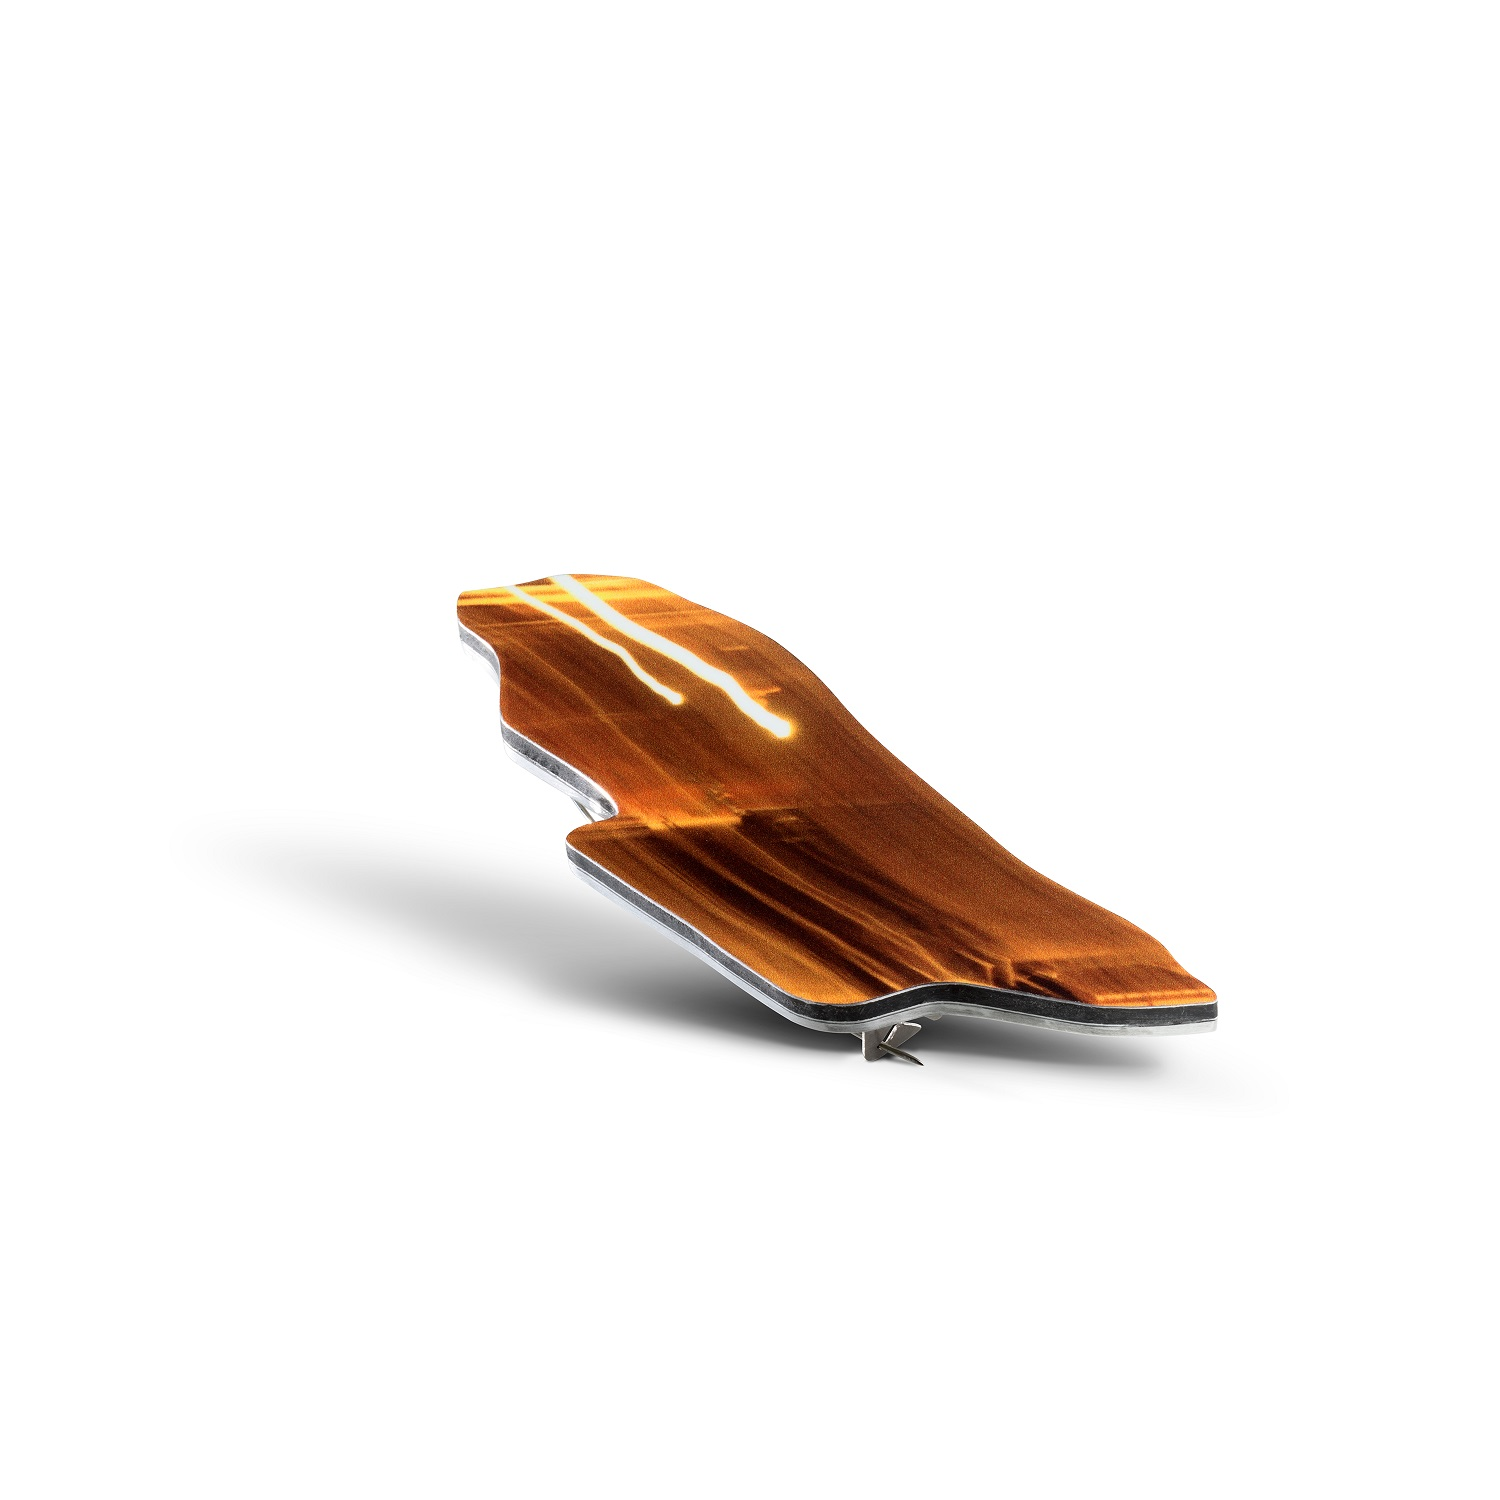
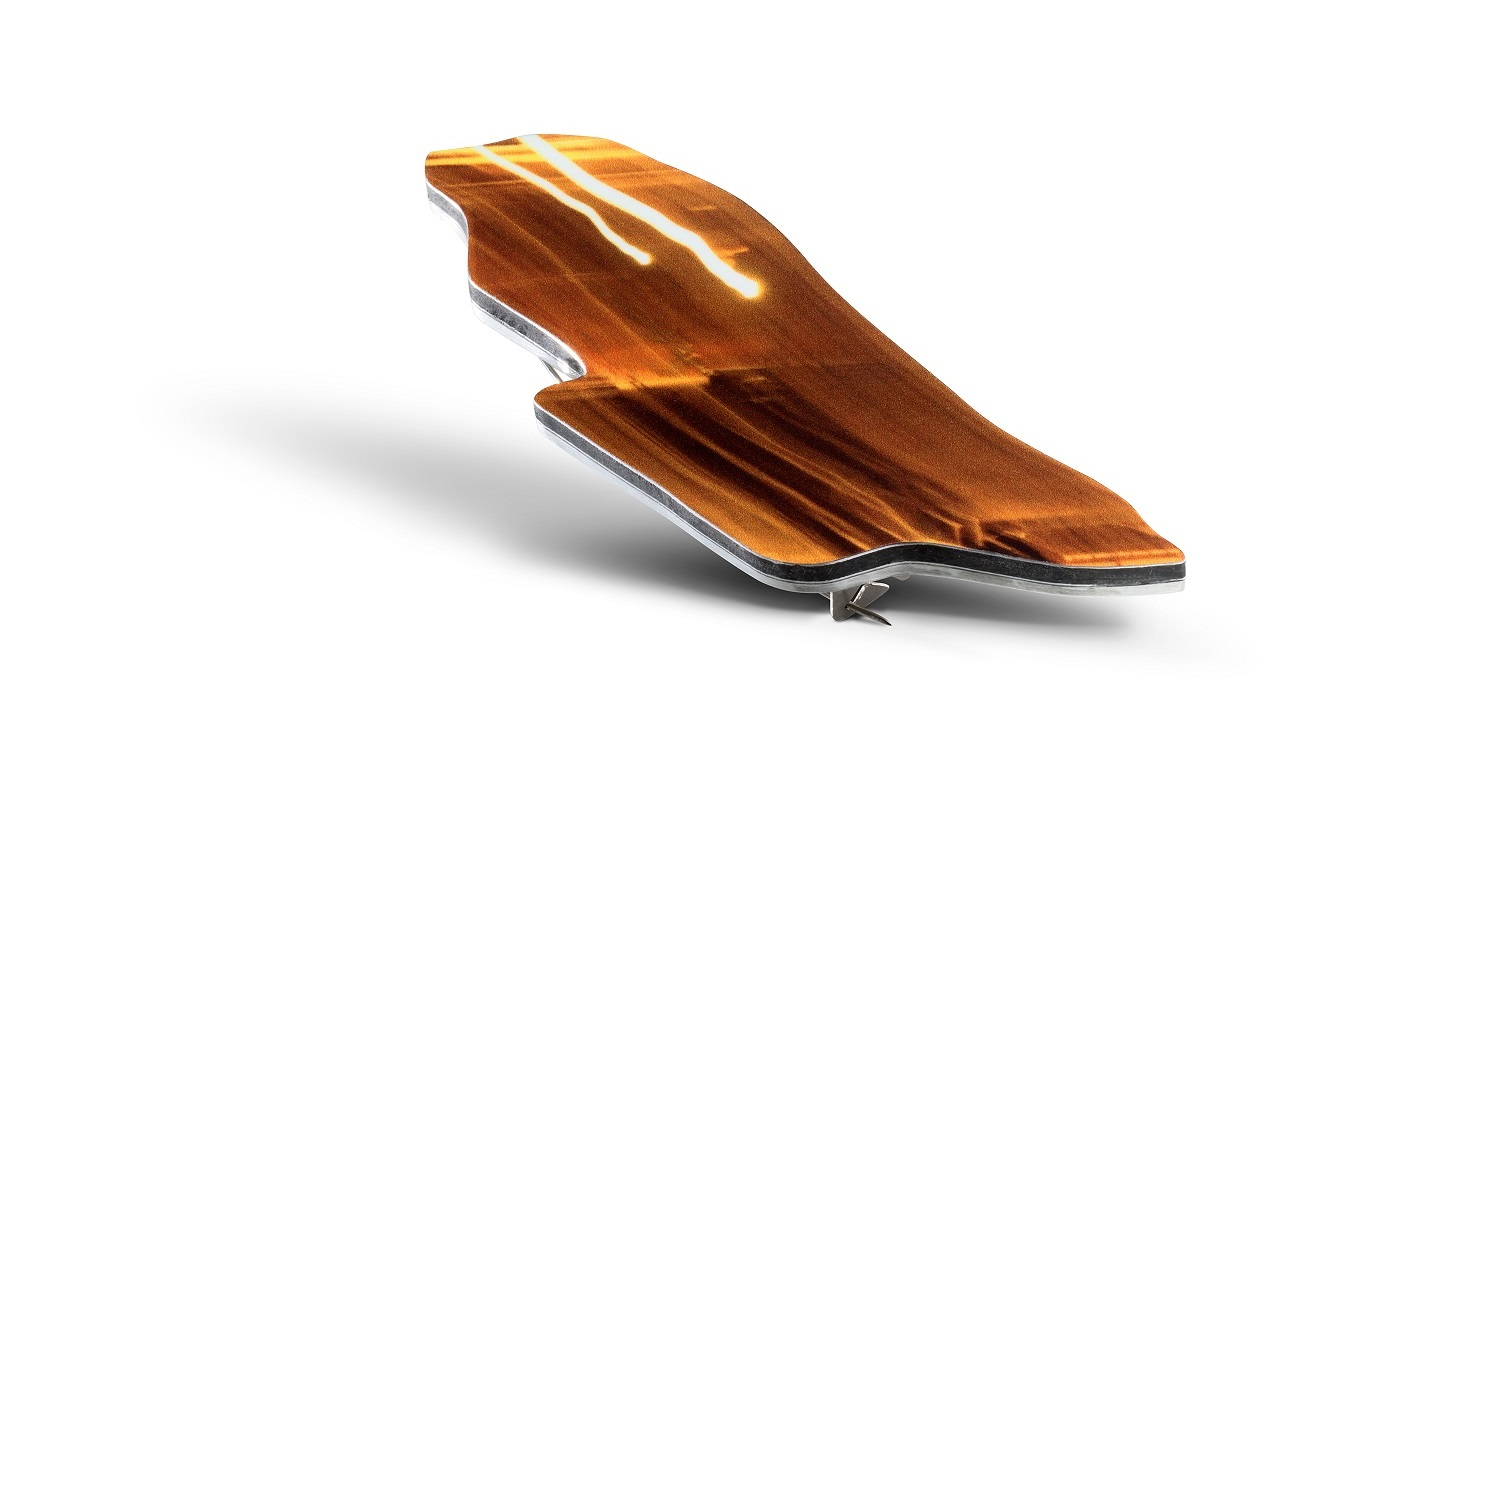
Modifiche a Easy Living

Changed region(s): [[0.184, 0.092, 0.828, 0.736]]

diff --git a/it/easy_living.html b/it/easy_living.html
@@ -115,60 +115,72 @@
             <div class="large-12 cell center">
                 <a data-open="modalFigura" class="thumbnail">
                     <img class="lazyload" data-src="../images/gioielli/Easy Living/1_Figura Femminile_Stefano Fronza_2016.jpg"
-                         alt="collana_Collegamento ipertestuale" width="30%" height="30%">
+                         alt="collana_Collegamento ipertestuale" width="30%" height="30%" style="margin-right: 8%;">
                 </a>
                 <a data-open="modalSpillaRiproduzione" class="thumbnail">
                     <img class="lazyload" data-src="../images/gioielli/Easy Living/2_spilla_Riproduzione_2016.jpg"
                          alt="collana_Collegamento ipertestuale" width="30%" height="30%">
                 </a>
+				</br>
+				<a data-open="modalSpillaOnda" class="thumbnail">
+                    <img class="lazyload" data-src="../images/gioielli/Easy Living/9_spilla_Onda_2018.jpg"
+                         alt="collana_Collegamento ipertestuale" width="30%" height="30%" style="margin-top: 7%;">
+                </a>
+				    <a data-open="modalSpillaRisorsa" class="thumbnail">
+                    <img class="lazyload" data-src="../images/gioielli/Easy Living/12_spilla_Risorsa_2021.jpg"
+                         alt="collana_Collegamento ipertestuale" width="30%" height="30%" style="margin-bottom: 10%;">
+                </a>
                 <a data-open="modalSpillaSegnali" class="thumbnail">
                     <img class="lazyload" data-src="../images/gioielli/Easy Living/3_spilla_Segnali_2016.jpg"
-                         alt="collana_Collegamento ipertestuale" width="30%" height="30%">
+                         alt="collana_Collegamento ipertestuale" width="30%" height="30%" style="margin-top: 7%;">
                 </a>
-                <a data-open="modalSpillaPesce" class="thumbnail">
-                    <img class="lazyload" data-src="../images/gioielli/Easy Living/4_spilla_Pesce_2016.jpg"
-                         alt="collana_Collegamento ipertestuale" width="30%" height="30%">
-                </a>
-                <a data-open="modalSpillaMonument" class="thumbnail">
-                    <img class="lazyload" data-src="../images/gioielli/Easy Living/5_Spilla_Monument_Stefano Fronza_2017.jpg"
-                         alt="collana_Collegamento ipertestuale" width="30%" height="30%">
-                </a>
-                <a data-open="modalOrecchinoOmbra" class="thumbnail">
-                    <img class="lazyload" data-src="../images/gioielli/Easy Living/6_orecchino singolo_Linea d'ombra_2017.jpg"
-                         alt="collana_Collegamento ipertestuale" width="30%" height="30%">
-                </a>
+               
                 <a data-open="modalOrecchinoOrizzonti" class="thumbnail">
                     <img class="lazyload" data-src="../images/gioielli/Easy Living/7_orecchino singolo_Orizzonti_2017.jpg"
                          alt="collana_Collegamento ipertestuale" width="30%" height="30%">
                 </a>
-                <a data-open="modalSpillaRinascita" class="thumbnail">
+               <a data-open="modalSpillaRinascita" class="thumbnail">
                     <img class="lazyload" data-src="../images/gioielli/Easy Living/8_spilla_Rinascita_2017.jpg"
                          alt="collana_Collegamento ipertestuale" width="30%" height="30%">
                 </a>
-                <a data-open="modalSpillaOnda" class="thumbnail">
-                    <img class="lazyload" data-src="../images/gioielli/Easy Living/9_spilla_Onda_2018.jpg"
+				 <a data-open="modalOrecchinoOmbra" class="thumbnail">
+                    <img class="lazyload" data-src="../images/gioielli/Easy Living/6_orecchino singolo_Linea d'ombra_2017.jpg"
                          alt="collana_Collegamento ipertestuale" width="30%" height="30%">
                 </a>
+				
+				 <a data-open="modalOrecchiniOrigineNelVento" class="thumbnail">
+                    <img class="lazyload" data-src="../images/gioielli/Easy Living/13_Origine nel vento.jpeg"
+                         alt="spilla Origine nel Vento" width="30%" height="30%" style="margin-top: 15%;">
+                </a>
+			    <a data-open="modalSpillaPesce" class="thumbnail">
+                    <img class="lazyload" data-src="../images/gioielli/Easy Living/4_spilla_Pesce_2016.jpg"
+                         alt="collana_Collegamento ipertestuale" width="30%" height="30%" style="margin-bottom: 15%;">
+                </a>
+				 <a data-open="modalOrecchiniGermogli" class="thumbnail">
+                    <img class="lazyload" data-src="../images/gioielli/Easy Living/11_orecchini_Germogli marini_2020.jpg"
+                         alt="collana_Collegamento ipertestuale" width="30%" height="30%" style="margin-top: 15%;">
+                </a>
+				
+				
+                <a data-open="modalSpillaMonument" class="thumbnail">
+                    <img class="lazyload" data-src="../images/gioielli/Easy Living/5_Spilla_Monument_Stefano Fronza_2017.jpg"
+                         alt="collana_Collegamento ipertestuale" width="30%" height="30%" style="margin-top: 10%;">
+                </a>
+               
+				  <a data-open="modalSpillaScieLuce" class="thumbnail">
+                    <img class="lazyload" data-src="../images/gioielli/Easy Living/11b_Scie di luce.jpeg"
+                         alt="spilla Scie di luce" width="30%" height="30%" style="margin-bottom: 10%;">
+                </a>
+				
+                
                 <a data-open="modalOrecchiniCoppia" class="thumbnail">
                     <img class="lazyload" data-src="../images/gioielli/Easy Living/10_Orecchini_Coppia_ Stefano Fronza_2020.jpg"
-                         alt="collana_Collegamento ipertestuale" width="30%" height="30%">
+                         alt="collana_Collegamento ipertestuale" width="30%" height="30%" style="margin-top: 10%;">
                 </a>
-                <a data-open="modalOrecchiniGermogli" class="thumbnail">
-                    <img class="lazyload" data-src="../images/gioielli/Easy Living/11_orecchini_Germogli marini_2020.jpg"
-                         alt="collana_Collegamento ipertestuale" width="30%" height="30%">
-                </a>
-                <a data-open="modalSpillaRisorsa" class="thumbnail">
-                    <img class="lazyload" data-src="../images/gioielli/Easy Living/12_spilla_Risorsa_2021.jpg"
-                         alt="collana_Collegamento ipertestuale" width="30%" height="30%">
-                </a>
-                <a data-open="modalOrecchiniOrigineNelVento" class="thumbnail">
-                    <img class="lazyload" data-src="../images/gioielli/Easy Living/13_Origine nel vento.jpeg"
-                         alt="spilla Origine nel Vento" width="30%" height="30%">
-                </a>
-                <a data-open="modalSpillaScieLuce" class="thumbnail">
-                    <img class="lazyload" data-src="../images/gioielli/Easy Living/11b_Scie di luce.jpeg"
-                         alt="spilla Scie di luce" width="30%" height="30%">
-                </a>
+               
+            
+               
+               
             </div>
         </div>
         <div class="rightFoto">
@@ -244,7 +256,7 @@
             <p class="right"><small><a href="#" data-open="modalMessaggio" class="href-menu">Vuoi saperne di più?</a></small></p>
         </div>
         <div class="reveal small" id="modalSpillaPesce" data-reveal>
-            <img class="lazyload" data-src="../images/gioielli/Easy Living/4_spilla_Pesce_2016.jpg">
+            <img class="lazyload" data-src="../images/gioielli/Easy Living/4_spilla_Pesce_2016_2.jpg">
             <div class="show-for-small-only">
                 <button class="close-button-small" data-close aria-label="Close modal" type="button">
                     <span aria-hidden="true">&times;</span>
@@ -324,7 +336,7 @@
             <p class="right"><small><a href="#" data-open="modalMessaggio" class="href-menu">Vuoi saperne di più?</a></small></p>
         </div>
         <div class="reveal small" id="modalSpillaRisorsa" data-reveal>
-            <img class="lazyload" data-src="../images/gioielli/Easy Living/12_spilla_Risorsa_2021.jpg">
+            <img class="lazyload" data-src="../images/gioielli/Easy Living/12_spilla_Risorsa_2021_2.jpg">
             <div class="show-for-small-only">
                 <button class="close-button-small" data-close aria-label="Close modal" type="button">
                     <span aria-hidden="true">&times;</span>
@@ -334,7 +346,8 @@
             <p class="right"><small><a href="#" data-open="modalMessaggio" class="href-menu">Vuoi saperne di più?</a></small></p>
         </div>
         <div class="reveal small" id="modalOrecchiniOrigineNelVento" data-reveal>
-            <img class="lazyload" data-src="../images/gioielli/Easy Living/13_Origine nel vento.jpeg">
+            <img class="lazyload" data-src="../images/gioielli/Easy Living/13_Origine nel vento_2
+			.jpeg">
             <div class="show-for-small-only">
                 <button class="close-button-small" data-close aria-label="Close modal" type="button">
                     <span aria-hidden="true">&times;</span>
@@ -344,7 +357,7 @@
             <p class="right"><small><a href="#" data-open="modalMessaggio" class="href-menu">Vuoi saperne di più?</a></small></p>
         </div>
         <div class="reveal small" id="modalSpillaScieLuce" data-reveal>
-            <img class="lazyload" data-src="../images/gioielli/Easy Living/11b_Scie di luce.jpeg">
+            <img class="lazyload" data-src="../images/gioielli/Easy Living/11b_Scie di luce_2.jpeg">
             <div class="show-for-small-only">
                 <button class="close-button-small" data-close aria-label="Close modal" type="button">
                     <span aria-hidden="true">&times;</span>
